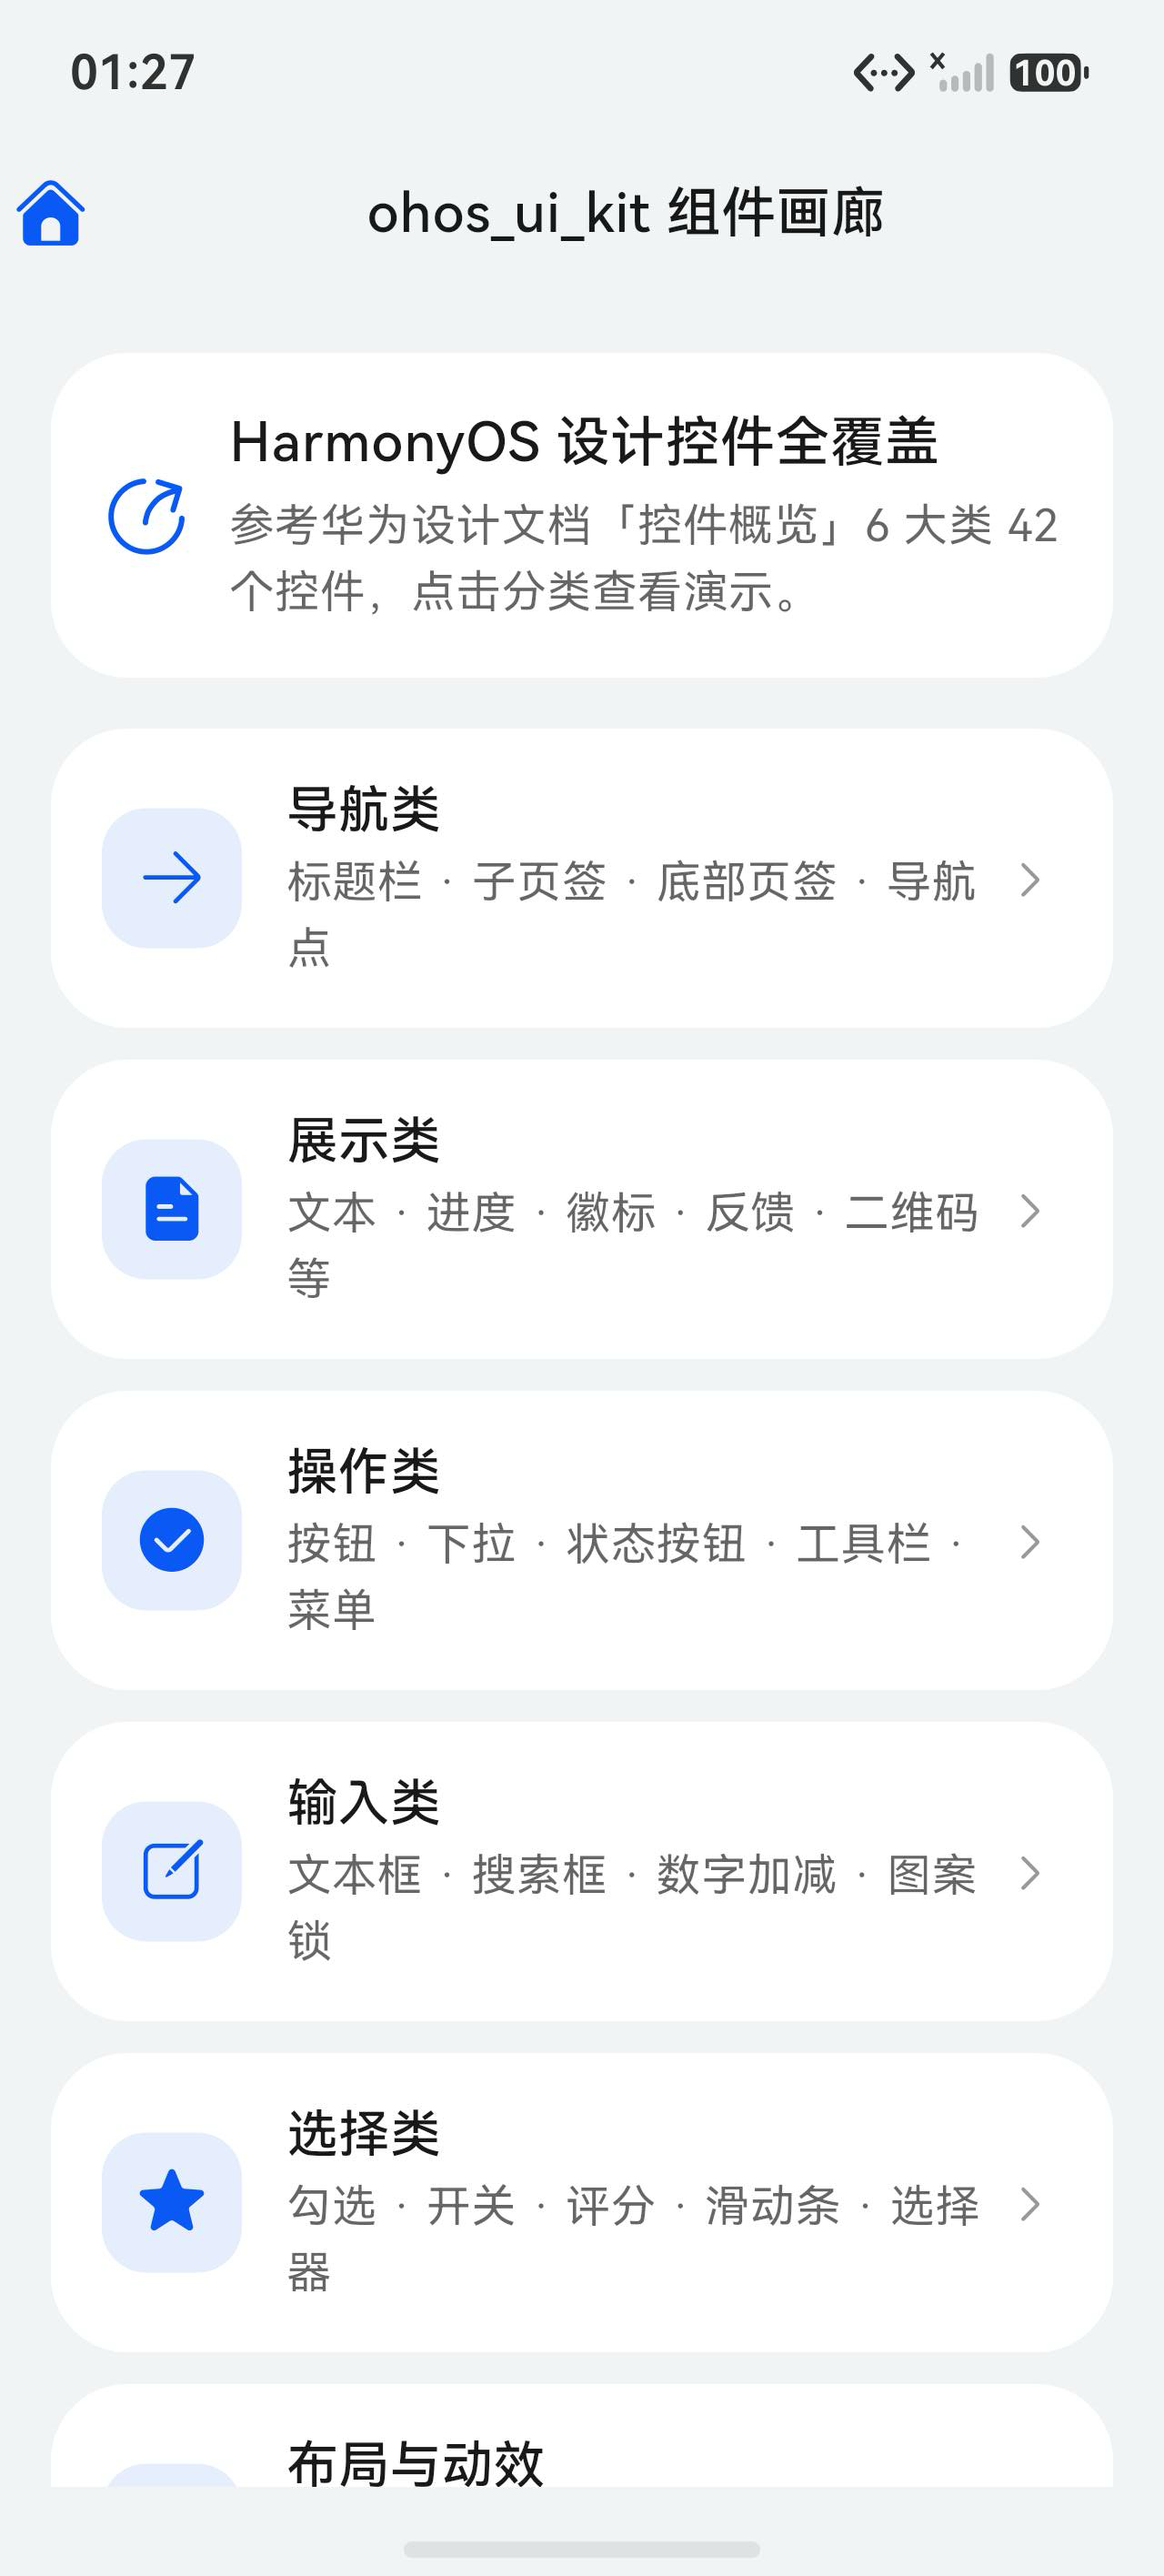
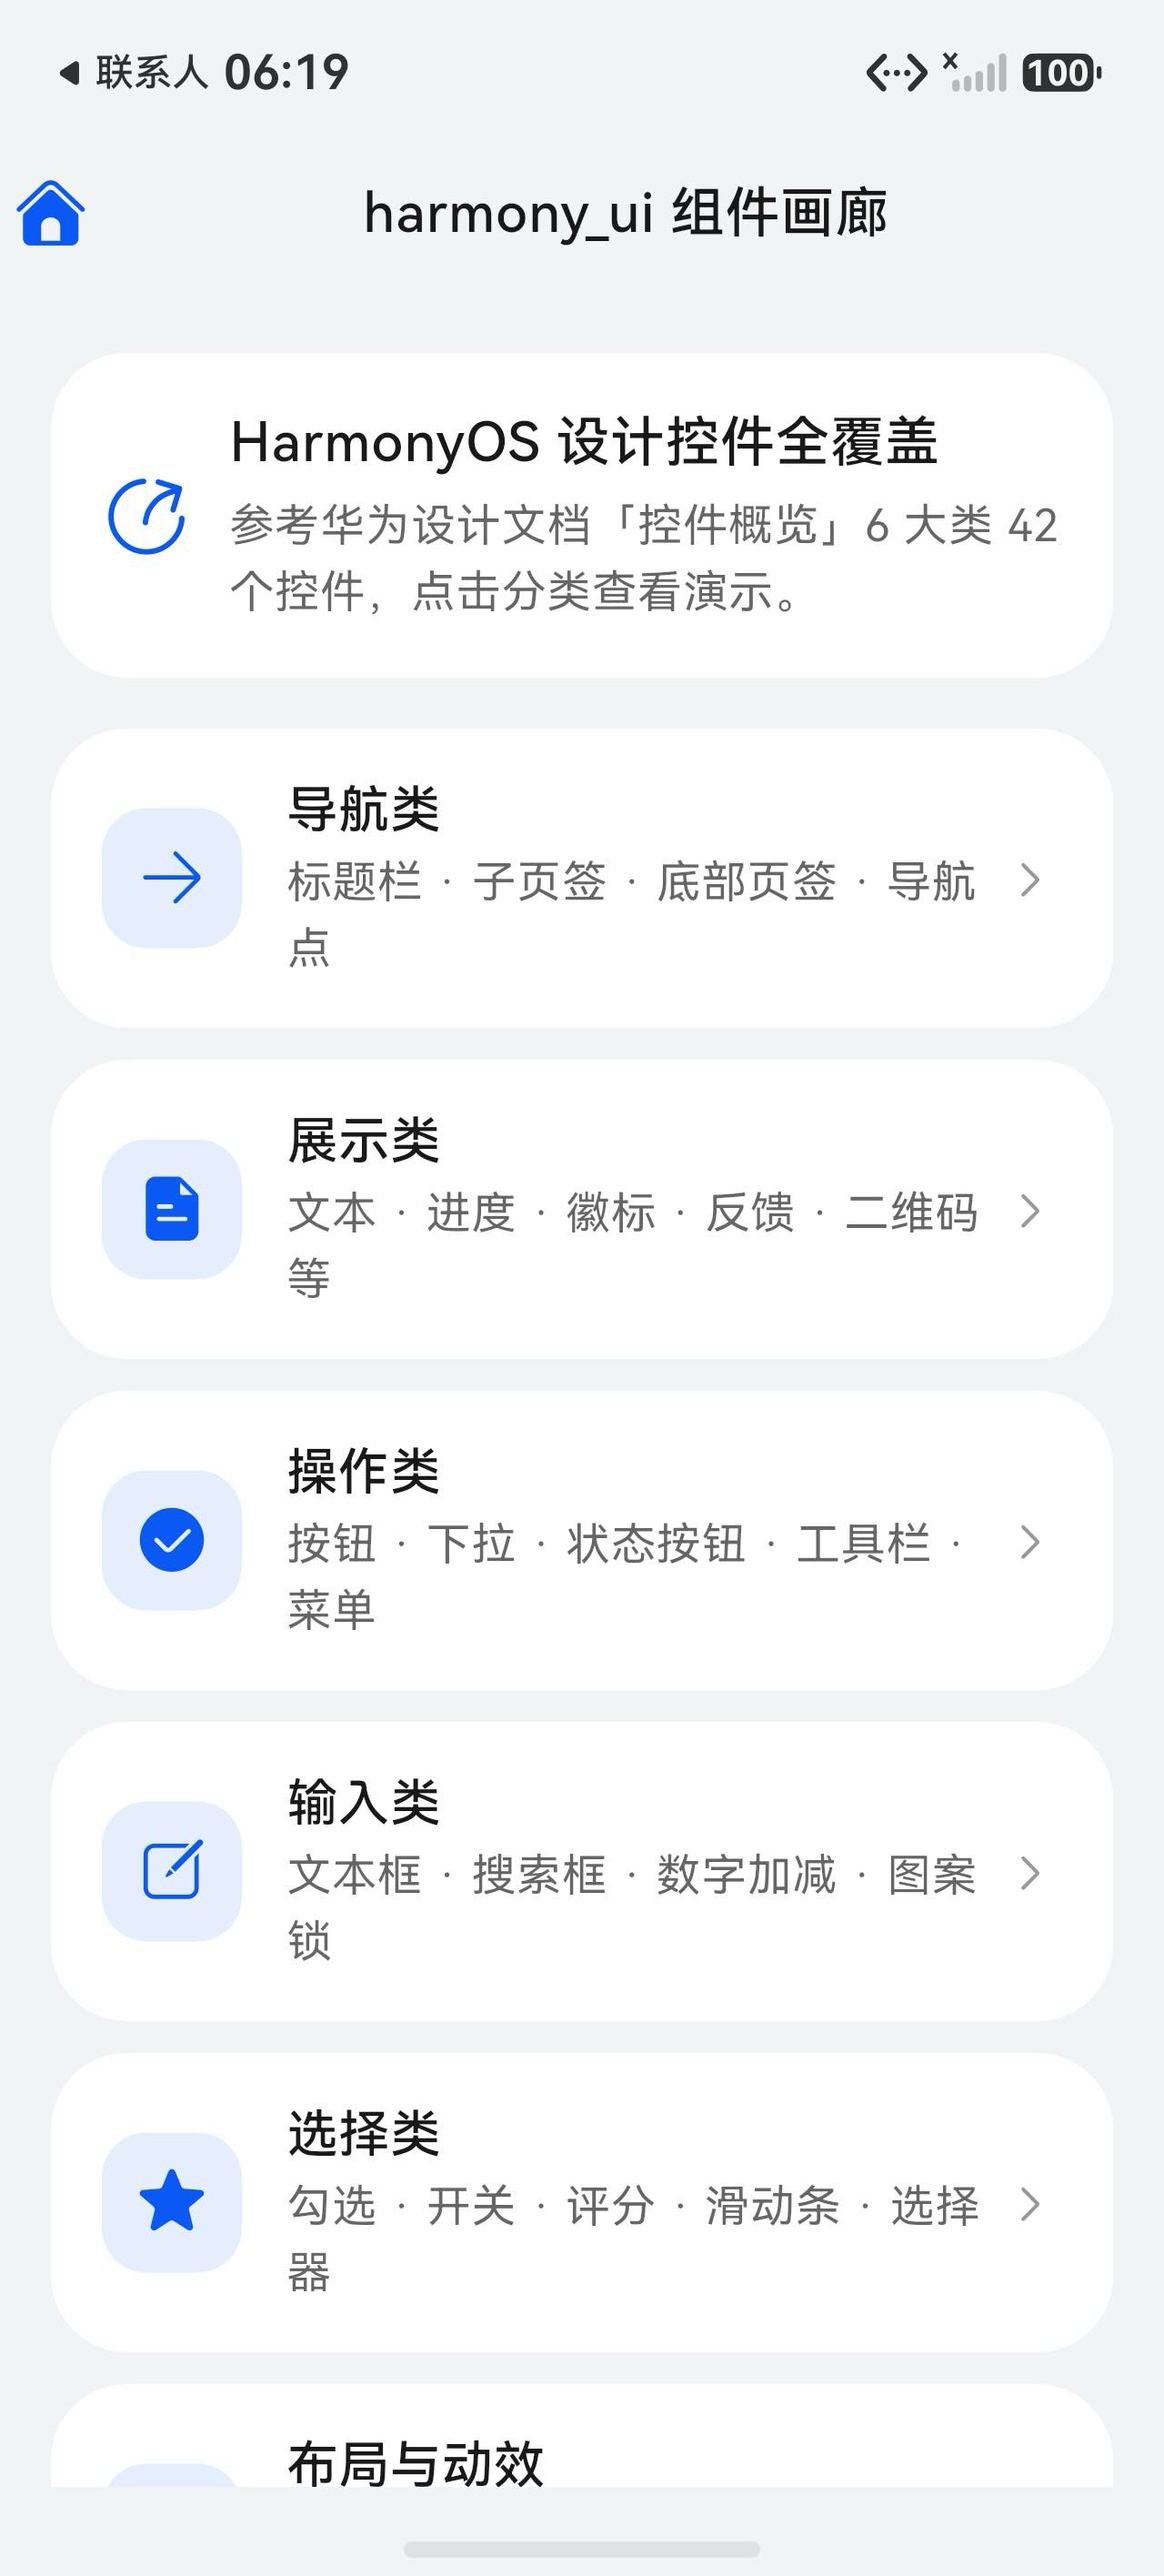
refactor: rename package to harmony_ui
- pubspec name: ohos_ui_kit -> harmony_ui
- main library file: lib/ohos_ui_kit.dart -> lib/harmony_ui.dart
- update example dependency, imports and app title across gallery pages
- update README install/quick-start references and CHANGELOG

diff --git a/example/lib/main.dart b/example/lib/main.dart
@@ -1,6 +1,6 @@
 import 'package:flutter/material.dart';
 import 'package:ohos_icons/ohos_icons.dart';
-import 'package:ohos_ui_kit/ohos_ui_kit.dart';
+import 'package:harmony_ui/harmony_ui.dart';
 
 import 'pages/action_page.dart';
 import 'pages/container_page.dart';
@@ -21,7 +21,7 @@ class OhosUiGalleryApp extends StatelessWidget {
   Widget build(BuildContext context) {
     return MaterialApp(
       debugShowCheckedModeBanner: false,
-      title: 'ohos_ui_kit gallery',
+      title: 'harmony_ui gallery',
       home: OhosTheme(
         data: OhosThemeData.light(fontFamily: 'HarmonyOS Sans'),
         child: const HomePage(),
@@ -99,7 +99,7 @@ class HomePage extends StatelessWidget {
     return OhosScaffold(
       appBar: OhosAppBar(
         leading: Icon(OhosIcons.house_fill, color: theme.highlightColor),
-        title: const Text('ohos_ui_kit 组件画廊'),
+        title: const Text('harmony_ui 组件画廊'),
       ),
       body: ListView(
         padding: const EdgeInsets.all(16),

diff --git a/lib/harmony_ui.dart b/lib/harmony_ui.dart
@@ -1,4 +1,4 @@
-/// ohos_ui_kit — a Material/Cupertino-style widget library that implements the
+/// harmony_ui — a Material/Cupertino-style widget library that implements the
 /// HarmonyOS design language.
 ///
 /// Wrap your app with an [OhosTheme] to provide design tokens (colors,

diff --git a/test/ohos_ui_test.dart b/test/ohos_ui_test.dart
@@ -1,7 +1,7 @@
 import 'package:flutter/material.dart';
 import 'package:flutter_test/flutter_test.dart';
 
-import 'package:ohos_ui_kit/ohos_ui_kit.dart';
+import 'package:harmony_ui/harmony_ui.dart';
 
 Widget wrap(Widget child) {
   return OhosTheme(

diff --git a/example/lib/pages/display_page.dart b/example/lib/pages/display_page.dart
@@ -2,7 +2,7 @@ import 'dart:async';
 
 import 'package:flutter/material.dart';
 import 'package:ohos_icons/ohos_icons.dart';
-import 'package:ohos_ui_kit/ohos_ui_kit.dart';
+import 'package:harmony_ui/harmony_ui.dart';
 
 import 'demo_scaffold.dart';
 

diff --git a/example/lib/pages/demo_scaffold.dart b/example/lib/pages/demo_scaffold.dart
@@ -1,5 +1,5 @@
 import 'package:flutter/material.dart';
-import 'package:ohos_ui_kit/ohos_ui_kit.dart';
+import 'package:harmony_ui/harmony_ui.dart';
 
 /// Shared scaffold for a demo category page: app bar with back button and a
 /// scrollable body.

diff --git a/example/lib/pages/action_page.dart b/example/lib/pages/action_page.dart
@@ -1,6 +1,6 @@
 import 'package:flutter/material.dart';
 import 'package:ohos_icons/ohos_icons.dart';
-import 'package:ohos_ui_kit/ohos_ui_kit.dart';
+import 'package:harmony_ui/harmony_ui.dart';
 
 import 'demo_scaffold.dart';
 

diff --git a/example/lib/pages/container_page.dart b/example/lib/pages/container_page.dart
@@ -1,6 +1,6 @@
 import 'package:flutter/material.dart';
 import 'package:ohos_icons/ohos_icons.dart';
-import 'package:ohos_ui_kit/ohos_ui_kit.dart';
+import 'package:harmony_ui/harmony_ui.dart';
 
 import 'demo_scaffold.dart';
 

diff --git a/example/lib/pages/input_page.dart b/example/lib/pages/input_page.dart
@@ -1,6 +1,6 @@
 import 'package:flutter/material.dart';
 import 'package:ohos_icons/ohos_icons.dart';
-import 'package:ohos_ui_kit/ohos_ui_kit.dart';
+import 'package:harmony_ui/harmony_ui.dart';
 
 import 'demo_scaffold.dart';
 

diff --git a/example/lib/pages/layout_page.dart b/example/lib/pages/layout_page.dart
@@ -1,6 +1,6 @@
 import 'package:flutter/material.dart';
 import 'package:ohos_icons/ohos_icons.dart';
-import 'package:ohos_ui_kit/ohos_ui_kit.dart';
+import 'package:harmony_ui/harmony_ui.dart';
 
 import 'demo_scaffold.dart';
 

diff --git a/example/lib/pages/navigation_page.dart b/example/lib/pages/navigation_page.dart
@@ -1,6 +1,6 @@
 import 'package:flutter/material.dart';
 import 'package:ohos_icons/ohos_icons.dart';
-import 'package:ohos_ui_kit/ohos_ui_kit.dart';
+import 'package:harmony_ui/harmony_ui.dart';
 
 import 'demo_scaffold.dart';
 

diff --git a/example/lib/pages/selection_page.dart b/example/lib/pages/selection_page.dart
@@ -1,6 +1,6 @@
 import 'package:flutter/material.dart';
 import 'package:ohos_icons/ohos_icons.dart';
-import 'package:ohos_ui_kit/ohos_ui_kit.dart';
+import 'package:harmony_ui/harmony_ui.dart';
 
 import 'demo_scaffold.dart';
 
